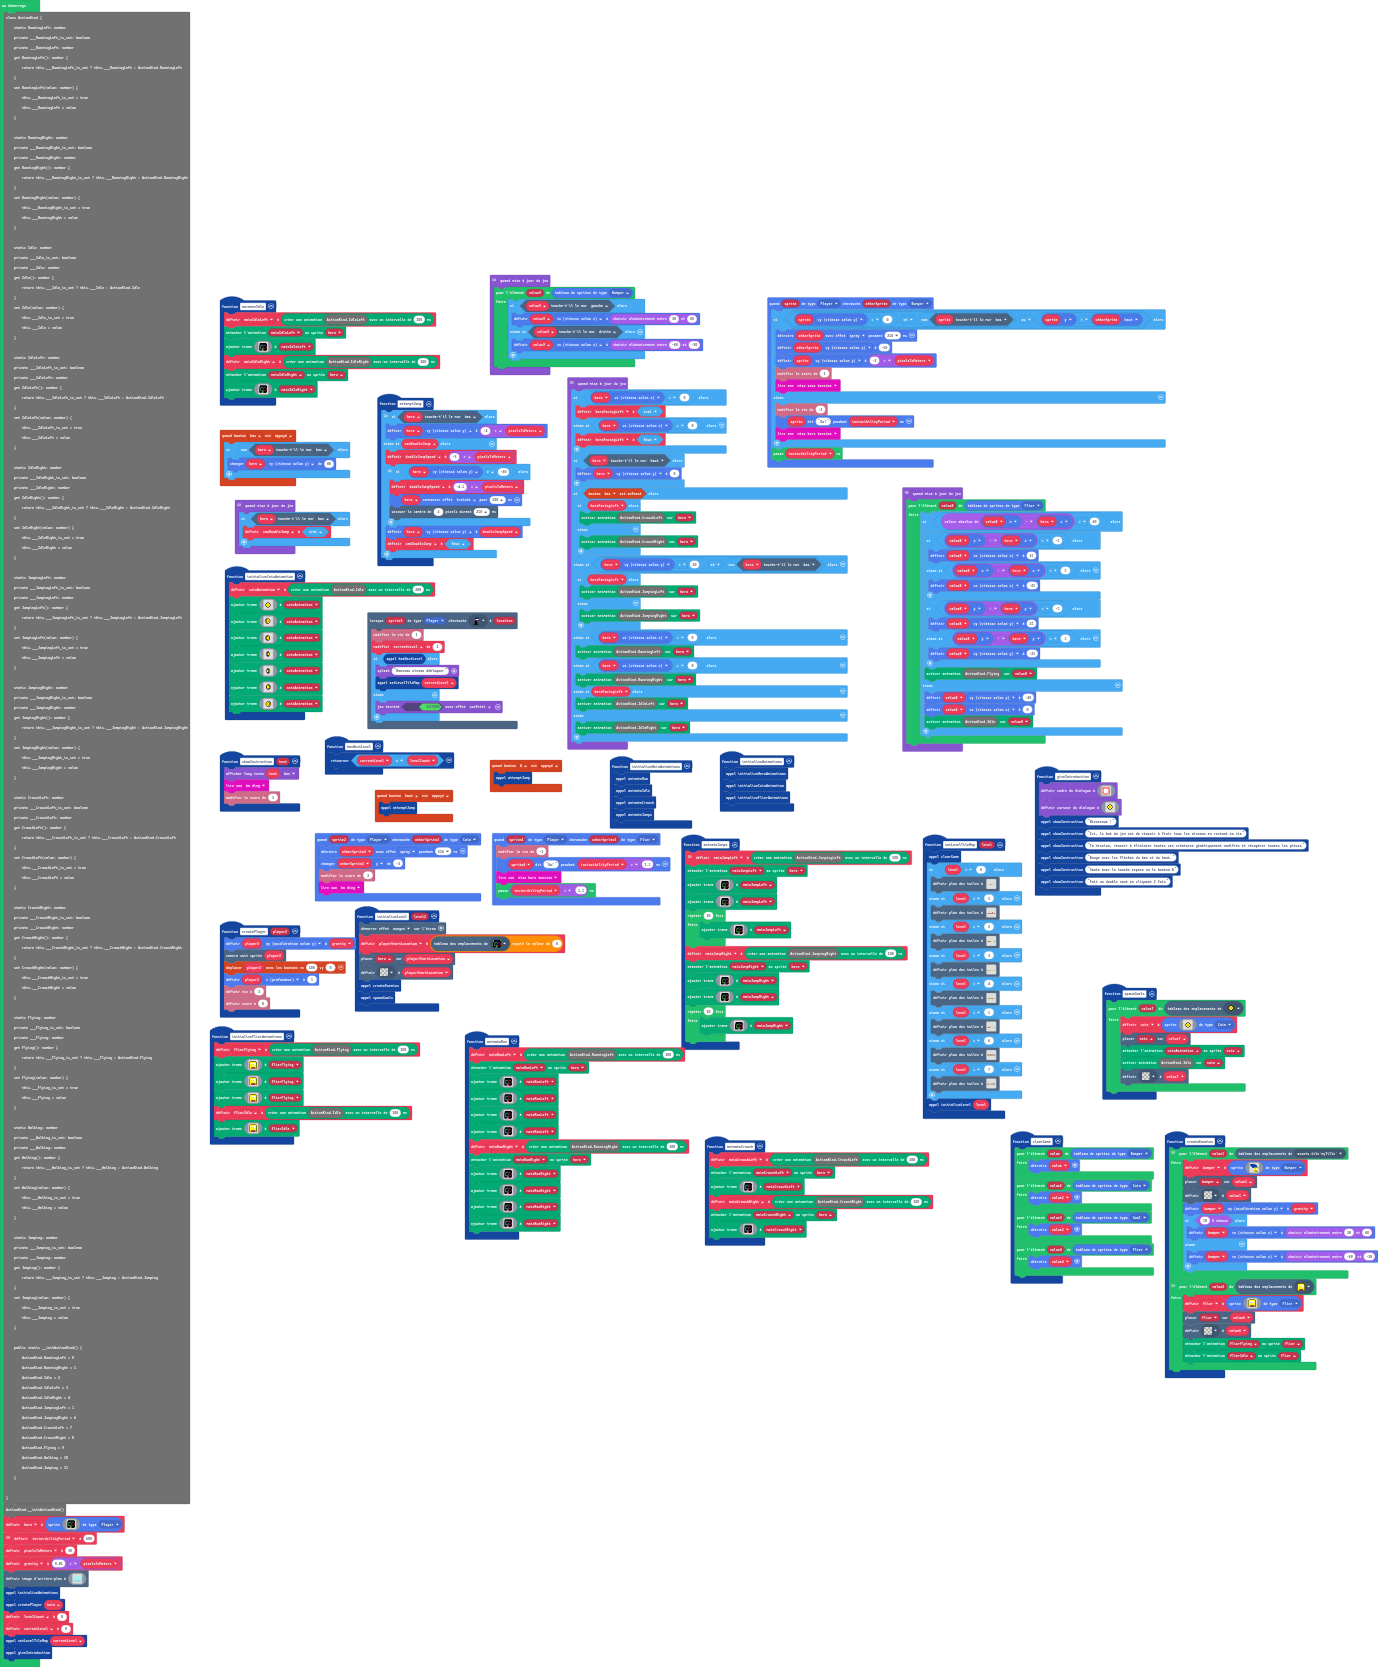
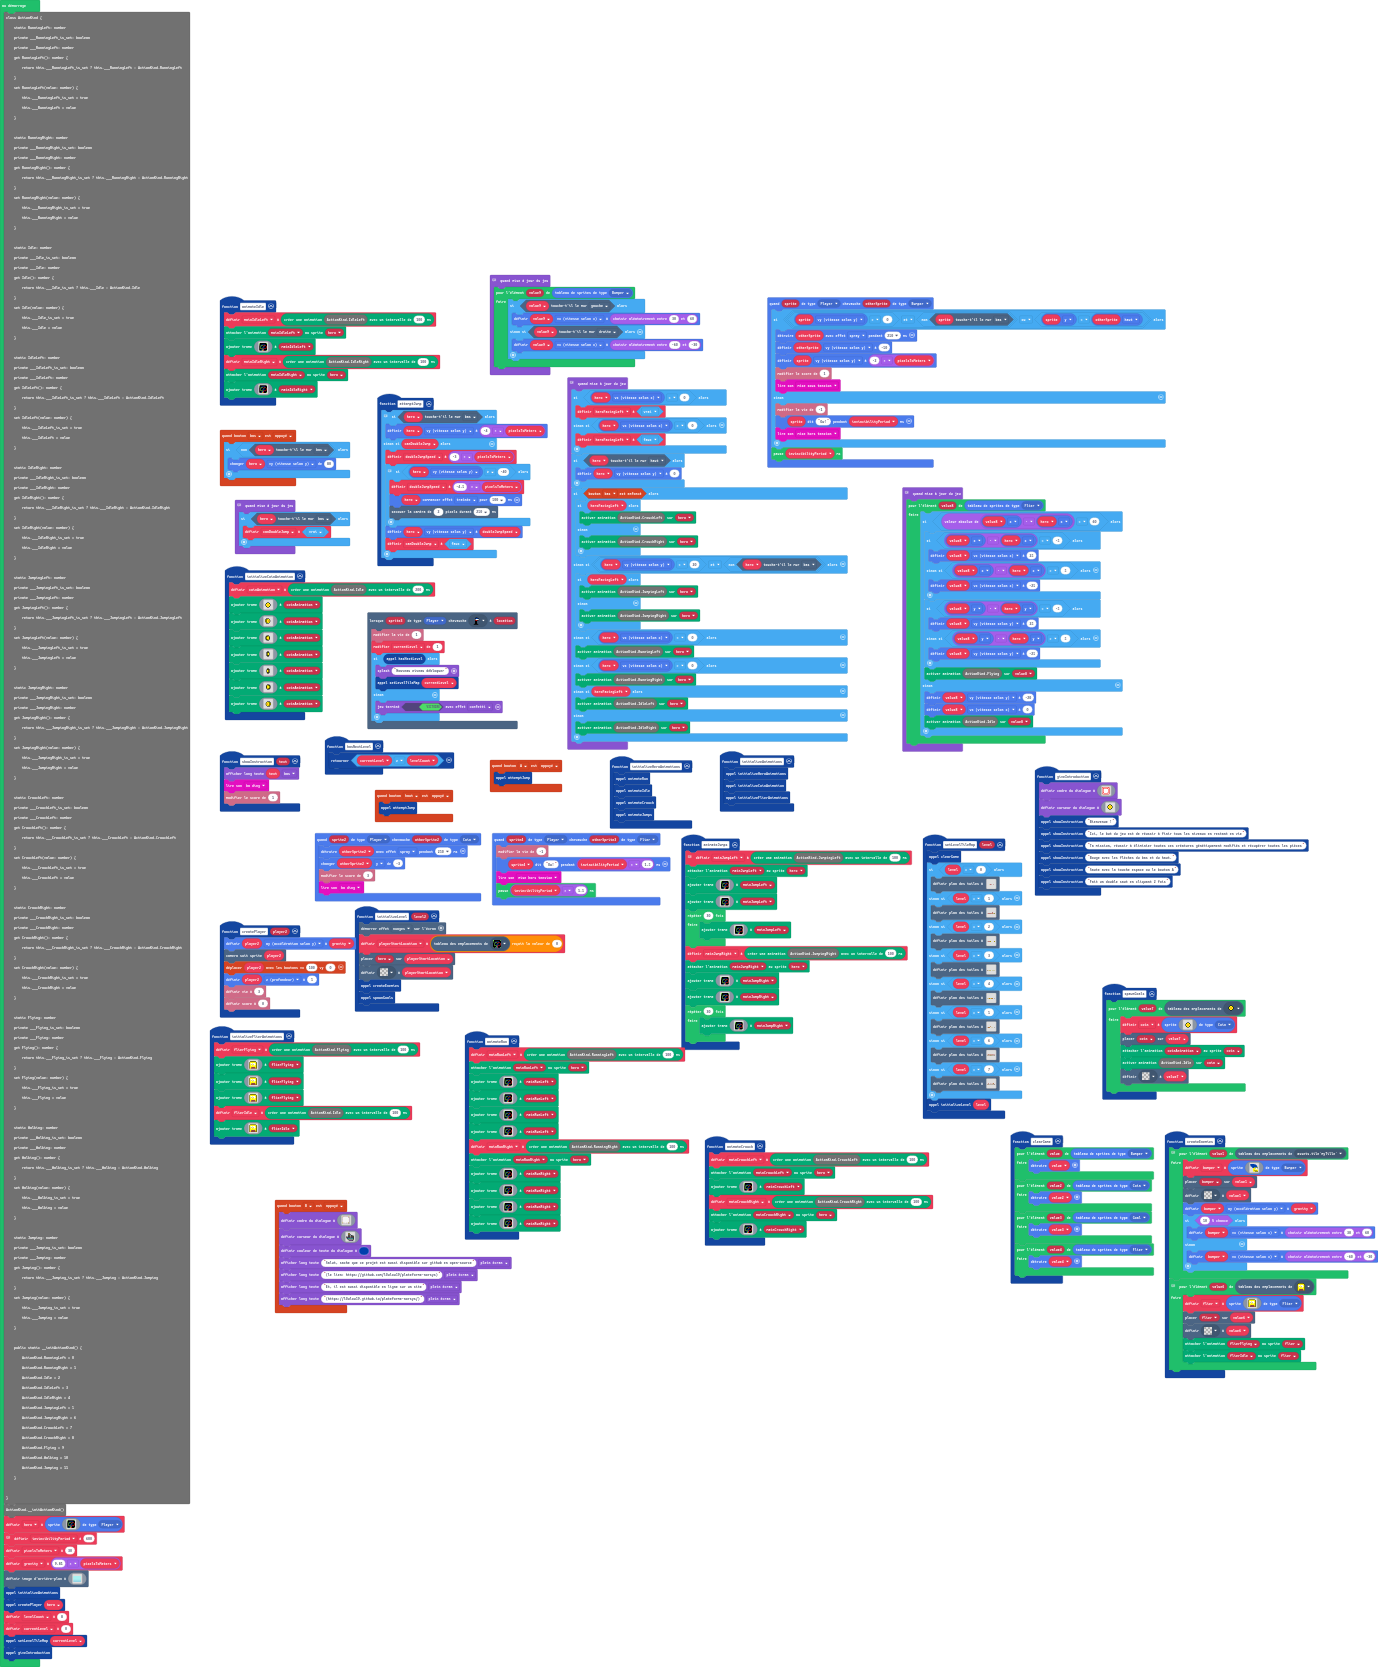
modification pour le bouton "B"

Changed region(s): [[0.1872, 0.7175, 0.3745, 0.811]]

diff --git a/main.ts b/main.ts
@@ -455,6 +455,58 @@ function createEnemies () {
         animation.attachAnimation(flier, flierIdle)
     }
 }
+controller.B.onEvent(ControllerButtonEvent.Pressed, function () {
+    game.setDialogFrame(img`
+        ...cc..............................cc.....
+        ..c55c..bbbb...bbbbb...bbbbb......c55c....
+        .cb55bcbdddbbbbbdddbbbbbdddbbbbbbcb55bc...
+        b555555bbdddb111bdddb111bdddb11db555555b..
+        bb5555bbbbdb11111bdb11111bdb1111bb5555bb..
+        cb5555bcddd11111ddd11111ddd11111cb5555bc..
+        .c5bb5c1111d111d111d111d111d111ddc5bb5c...
+        .cbbbbc11111111111111111111111111cbbbbc...
+        ..b1111111111111111111111111111111dddbb...
+        ..b11111111111111111111111111111111dbbdb..
+        ..bb1111111111111111111111111111111dbddb..
+        .bbdb1d1111111111111111111111111111ddddb..
+        .bdddd1111111111111111111111111111d1bdbb..
+        .bddbd1111111111111111111111111111111bb...
+        .bdb1d11111111111111111111111111111111b...
+        .bb111d1111111111111111111111111111111b...
+        ..b1111111111111111111111111111111d111bb..
+        ..b11111111111111111111111111111111d1bdb..
+        ..bb1111111111111111111111111111111dbddb..
+        .bbdb1d1111111111111111111111111111ddddb..
+        .bdddd1111111111111111111111111111d1bdbb..
+        .bddbd1111111111111111111111111111111bb...
+        .bdb1d11111111111111111111111111111111b...
+        .bb111d1111111111111111111111111111111b...
+        ..b1111111111111111111111111111111d111bb..
+        ..b11111111111111111111111111111111d1bdb..
+        ..bb1111111111111111111111111111111dbddb..
+        .bbdb1d1111111111111111111111111111ddddb..
+        .bdddd1111111111111111111111111111d1bdbb..
+        .bddbd1111111111111111111111111111111bb...
+        .bdbb111111111111111111111111111111111b...
+        .bbbd111111111111111111111111111111111b...
+        ..bcc11111111111111111111111111111dccdb...
+        ..c55c1111111d111d111d111d111d1111c55cb...
+        .cb55bcdd11111ddd11111ddd11111dddcb55bc...
+        b555555bd1111bdb11111bdb11111bdbb555555b..
+        bb5555bbdd11bdddb111bdddb111bdddbb5555bb..
+        cb5555bcbbbbbbdddbbbbbdddbbbbbddcb5555bc..
+        .c5bb5c......bbbbb...bbbbb...bbbbc5bb5c...
+        .cbbbbc..........................cbbbbc...
+        ..........................................
+        ..........................................
+        `)
+    game.setDialogCursor(assets.image`souris`)
+    game.setDialogTextColor(8)
+    game.showLongText("Salut, sache que ce projet est aussi disponible sur github en open-source", DialogLayout.Full)
+    game.showLongText("(le lien: https://github.com/l0ulou59/plateforme-norsys)", DialogLayout.Full)
+    game.showLongText("Et, il est aussi disponible en ligne sur un site", DialogLayout.Full)
+    game.showLongText("(https://l0ulou59.github.io/plateforme-norsys/)", DialogLayout.Full)
+})
 sprites.onOverlap(SpriteKind.Player, SpriteKind.Flier, function (sprite4, otherSprite3) {
     info.changeLifeBy(-1)
     sprite4.say("Ow!", invincibilityPeriod * 1.5)

diff --git a/images.g.ts b/images.g.ts
@@ -79,6 +79,25 @@ f f f f 8 8 8 7 8 2 f f f f f f
 f f f 8 8 f 7 7 2 2 f f f f f 7 
 7 7 f 8 f 7 7 2 2 f f f f f 7 7 
 `;
+            case "image5":
+            case "souris":return img`
+. . . . . f f . . . . . . . . . 
+. . . . f 5 5 f . . . . . . . . 
+. . . . f 5 5 f . . . . . . . . 
+. . . . f 3 3 f f f . . . . . . 
+. . . . f 3 3 f 3 3 f . . . . . 
+. . . . f 6 6 f 6 6 f f f f f . 
+. . . . f 6 6 f 6 6 f 6 6 f 6 f 
+f f f . f 4 4 f 4 4 f 4 4 f 4 f 
+f 4 4 f f 4 4 f 4 4 f 4 4 f 4 f 
+f 8 8 8 8 8 8 8 8 8 8 8 8 8 8 f 
+. f 8 8 8 8 8 8 8 8 8 8 8 8 8 f 
+. . f 7 7 7 7 7 7 7 7 7 7 7 7 f 
+. . . f 7 7 7 7 7 7 7 7 7 7 7 f 
+. . . . f a a a a a a a a a f . 
+. . . . . f a a a a a a a f f . 
+. . . . . . f f f f f f f f . . 
+`;
         }
         return null;
     })
